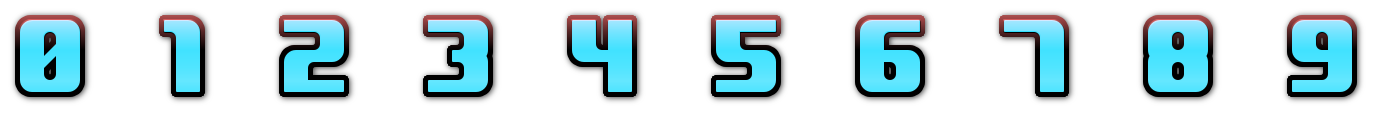
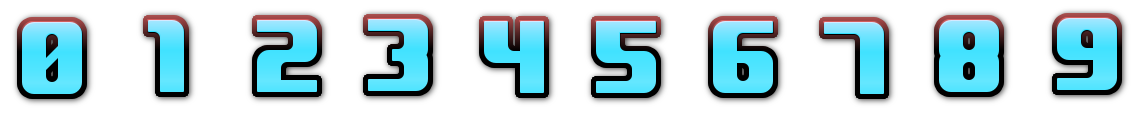
Score

diff --git a/OWProjct (1)/Project/GameProject/main.cpp b/OWProjct (1)/Project/GameProject/main.cpp
@@ -102,7 +102,7 @@ void Init(void)
 	ADD_RESOURCE("Block_orange", CImage::CreateImage("Block/Block_orange.png"));
 	ADD_RESOURCE("Block_pink", CImage::CreateImage("Block/Block_pink.png"));
 	ADD_RESOURCE("Block_purple", CImage::CreateImage("Block/Block_purple.png"));
-	//Base::Add(new Block(CVector2D(300, 300),2));
+	ADD_RESOURCE("Score", CImage::CreateImage("UI/Score.png"));
 	ADD_RESOURCE("Title", CImage::CreateImage("Title/Title.png"));
 	ADD_RESOURCE("Title_Font", CImage::CreateImage("Title/Title_Font.png"));
 	ADD_RESOURCE("Start", CImage::CreateImage("Title/START.png"));

diff --git a/OWProjct (1)/Project/GameProject/Game/Score.cpp b/OWProjct (1)/Project/GameProject/Game/Score.cpp
@@ -2,13 +2,28 @@
 
 Score::Score()
 	:Base(eType_Score)
+	,m_score(0)
 {
+	m_img = COPY_RESOURCE("Score", CImage);
 }
 
 void Score::Update()
 {
+	if (PUSH(CInput::eButton2))
+	{
+		m_score++;
+	}
 }
 
 void Score::Draw()
 {
+	int i;
+	int n = m_score;
+	for (i = 0; i < 3; i++, n /= 10) {
+		int c = n % 10;
+		m_img.SetRect(c * 114, 0, c * 114 + 114, 114);
+		m_img.SetSize(100, 100);
+		m_img.SetPos(800 - 114 * i, 100);
+		m_img.Draw();
+	}
 }

diff --git a/OWProjct (1)/Project/GameProject/Game/Game.cpp b/OWProjct (1)/Project/GameProject/Game/Game.cpp
@@ -2,7 +2,7 @@
 #include "Block_Gray.h"
 #include "Player.h"
 #include "Field.h"
-
+#include "Score.h"
 Game::Game()
 	:Base(eType_Scene)
 	,m_cnt(0)
@@ -10,7 +10,7 @@ Game::Game()
 	Base::Add(new Player(CVector2D(200, 500), false));
 	Base::Add(new Field());
 	Base::Add(new Block_Gray(CVector2D(0, 200)));
-
+	Base::Add(new Score());
 	SOUND("BackMusic")->Play();
 }
 

diff --git a/OWProjct (1)/Project/GameProject/Game/Score.h b/OWProjct (1)/Project/GameProject/Game/Score.h
@@ -5,6 +5,7 @@ class Score : public Base
 {
 private:
 	CImage m_img;
+	int m_score;
 public:
 	Score();
 	void Update()override;
